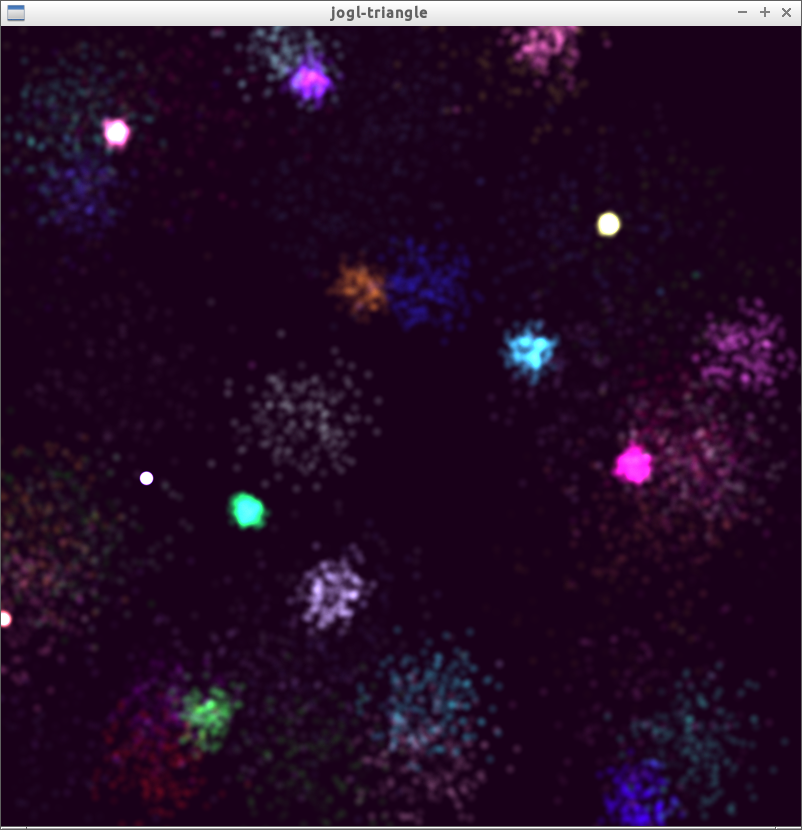
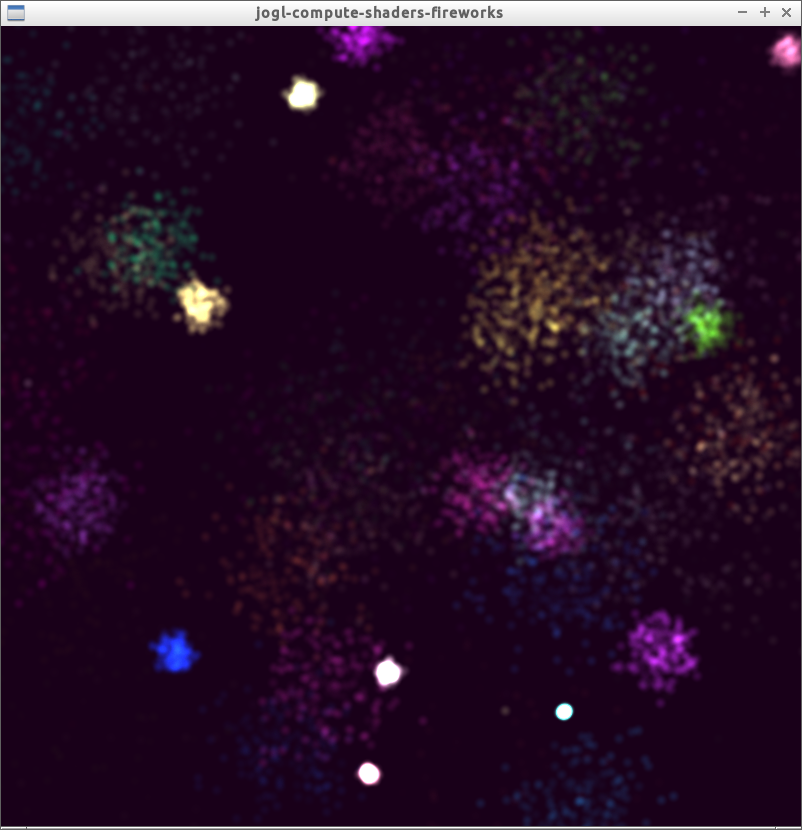
Cleanup

diff --git a/src/com/persesgames/jogl/TestJogl.java b/src/com/persesgames/jogl/TestJogl.java
@@ -26,7 +26,7 @@ public class TestJogl {
 
         GLWindow glWindow = GLWindow.create(caps);
 
-        glWindow.setTitle("jogl-triangle");
+        glWindow.setTitle("jogl-compute-shaders-fireworks");
 
         glWindow.setSize(800, 800);
 
